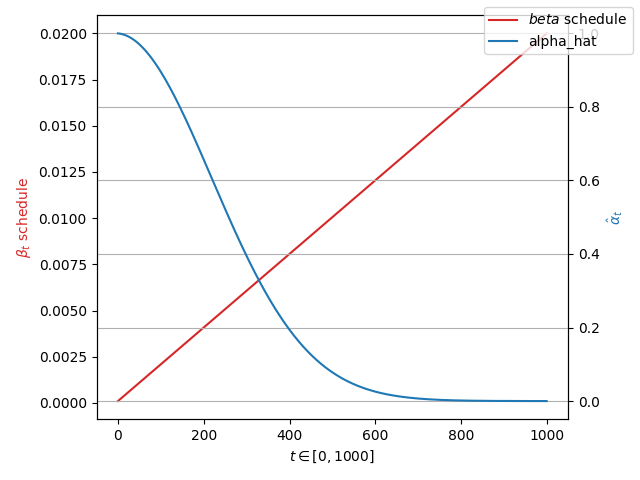
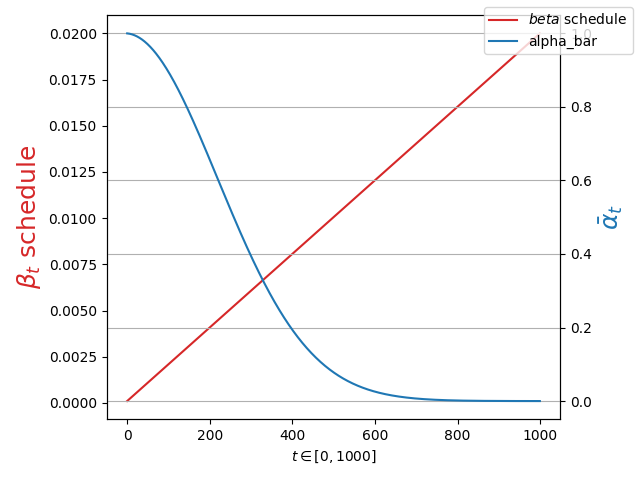
Add more details about Markovian noising process

diff --git a/plot_alpha_beta.py b/plot_alpha_beta.py
@@ -23,7 +23,7 @@ def plot_alpha_beta(alpha_hat, beta):
 
     #plt.plot(alpha_hat.cpu().numpy(), color='r', label='alpha_hat')
     color1 = 'tab:red'
-    ax1.set_ylabel(r'$\beta_t$ schedule', color=color1)
+    ax1.set_ylabel(r'$\beta_t$ schedule', color=color1, fontsize=18)
     ax1.set_xlabel(r'$t \in [0,1000]$')
     #ax1.yaxis.set_major_formatter(FormatStrFormatter('%1.1e+1'))
     ax1.plot(beta.cpu().numpy(), color=color1, label='$beta$ schedule')
@@ -31,9 +31,9 @@ def plot_alpha_beta(alpha_hat, beta):
 
     color2 = 'tab:blue'
     ax2 = ax1.twinx()  # instantiate a second Axes that shares the same x-axis    
-    ax2.set_ylabel(r'$\hat{\alpha}_t$', color=color2)
+    ax2.set_ylabel(r'$\bar{\alpha}_t$', color=color2, fontsize=18)
     #ax2.plot(torch.sqrt(alpha_hat).cpu().numpy(), color=color2, label='sqrt(alpha_hat)')
-    ax2.plot(alpha_hat.cpu().numpy(), color=color2, label='alpha_hat')
+    ax2.plot(alpha_hat.cpu().numpy(), color=color2, label='alpha_bar')
 
 
     #plt.title("$\beta_t$ schedule and $\sqrt{\alpha_t}$")
@@ -41,4 +41,4 @@ def plot_alpha_beta(alpha_hat, beta):
     fig.tight_layout()  # otherwise the right y-label is slightly clipped
     fig.legend()
 
-    plt.savefig('eren_alpha_hat.png')
+    plt.savefig('beta_alpha_hat.png')

diff --git a/README.md b/README.md
@@ -26,14 +26,20 @@ accelerate launch ddpm_accelerate.py
 
 
 ### Details and Illustrations on Training
-In training, U-Net is trained to estimate the noise (i.e. the mean of the noising process) from the noised samples $q(\mathbf{x}_t|\mathbf{x}_0)$ which are given by normal distribution:
+In training, U-Net is trained to estimate the noise (i.e. the mean of the noising process) from the noisy pictures sampled from $q(\mathbf{x}_t|\mathbf{x}_0)$ which are given by normal distribution below using a linear $\beta_t$ schedule where $\alpha_t= 1-\beta_t$  and $\bar{\alpha}_t = \Pi _{s=1}^t \alpha_s$. 
+For ex. in the code $\beta_t$ is selected as a linear schedule $[0.0001, 0.02]$. For given $\beta_t$ schedule and large  $t \in [0,1000]$, the $q(\mathbf{x}_t|\mathbf{x}_0)$ becomes zero mean, unit variance normal distribution (as illustrated below).
 
 $$q(\mathbf{x}_t|\mathbf{x}_0) = \mathcal{N}(\mathbf{x}_t; \sqrt{\bar{\alpha} _t} \mathbf{x}_0, (1-\bar{\alpha}_t) \mathbf{I} )$$
 
-using a linear $\beta_t$ schedule where $\alpha_t= 1-\beta_t$  and $\bar{\alpha}_t = \Pi _{s=1}^t \alpha_s$. For ex. in the code $\beta_t$ is selected as a linear schedule $[0.0001, 0.02]$. For given $\beta_t$ schedule and large  $t \in [0,1000]$, the $q(\mathbf{x}_t|\mathbf{x}_0)$ becomes zero mean, unit variance normal distribution (as illustrated below).
+**P.S.** The noising is actually defined as a Markovian process with distribution given by $q(\mathbf{x} _t|\mathbf{x} _{t-1}) = \mathcal{N}(\mathbf{x} _t; \sqrt{1-\beta _t} \mathbf{x} _{t-1}, \beta _t \mathbf{I} )$. Details of obtaining the above noising process $q(\mathbf{x}_t|\mathbf{x}_0)$ is given in [Lil'log: What are Diffusion Models](https://lilianweng.github.io/posts/2021-07-11-diffusion-models/#forward-diffusion-process)
 
-<img src="images/beta_alpha_hat.png" width="400">
 
+
+
+
+<p align="center">
+<img src="images/beta_alpha_hat.png" width="450">
+</p>
 <!--
 Due to bug: https://stackoverflow.com/questions/78158848/how-to-render-both-of-latex-formula-and-image-in-markdown-table-in-github-readme
 -->
